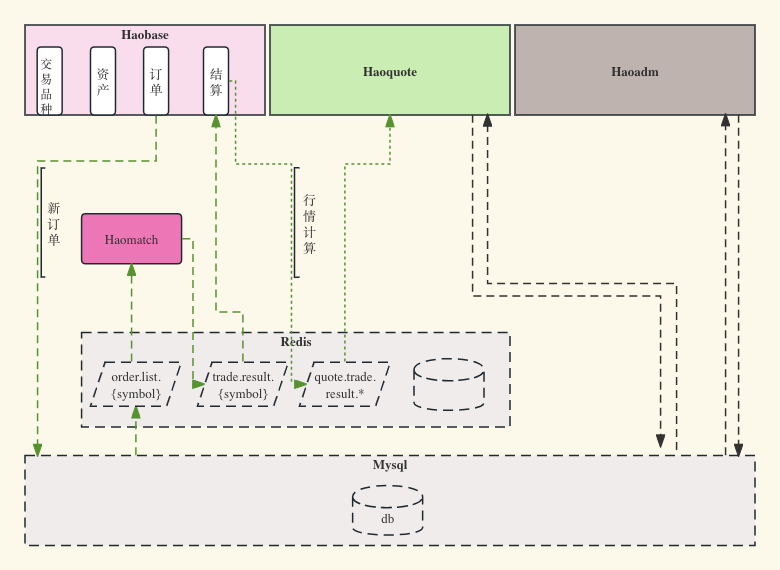
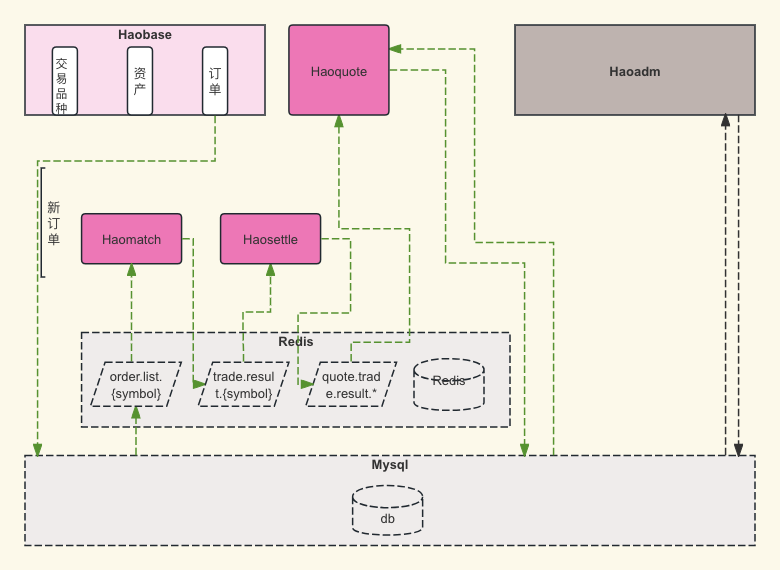
调整程序设计

diff --git a/document/README.md b/document/README.md
@@ -1,9 +1,16 @@
 ## HaoTrader证券交易系统
-这是一个证券交易系统的项目，为了方便部署，拆分出了多个模块。目前只提供服务端程序和接口，前端或客户端期待更多有缘人一起来参与开发。
+这是一个证券交易系统的学习项目，为了方便部署，可以拆分出了多个模块。目前只提供服务端程序和接口，前端或客户端期待更多有缘人一起来参与开发。
 
-  - Haobase   交易品种、用户资产、订单记录、订单结算
-  - Haomatch  证券交易撮合引擎
+  - Haobase   交易品种、用户资产、订单记录
+  - Haomatch  交易撮合
+  - Haosettle 订单结算
   - Haoquote  交易行情、websocket推送
+  - Haoadm    运营管理后台
+
+
+## All in One
+
+  - Haotrader 包含所有模块
   
 Github: https://github.com/yzimhao/trading_engine
 

diff --git a/README.md b/README.md
@@ -35,15 +35,17 @@
     - [x] 交易品种
     - [x] 资产模块
     - [x] 订单模块
-    - [x] 结算模块
     - [x] 充值提现
 
   - [x] [haomatch]
     - [x] 撮合模块
+  
+  - [x] [haosettle]
+    - [x] 结算模块
 
   - [x] [haoquote]
     - [x] 深度行情
-    - [x] Kline数据
+    - [x] K线数据
     - [x] websocket推送
 
 ## 撮合

diff --git a/document/develop.md b/document/develop.md
@@ -12,6 +12,7 @@
     cd cmd/ 
     go run haobase/main.go -c config.toml
     go run haomatch/main.go -c config.toml
+    go run haosettle/main.go -c config.toml
     go run haoquote/main.go -c config.toml
 
     
